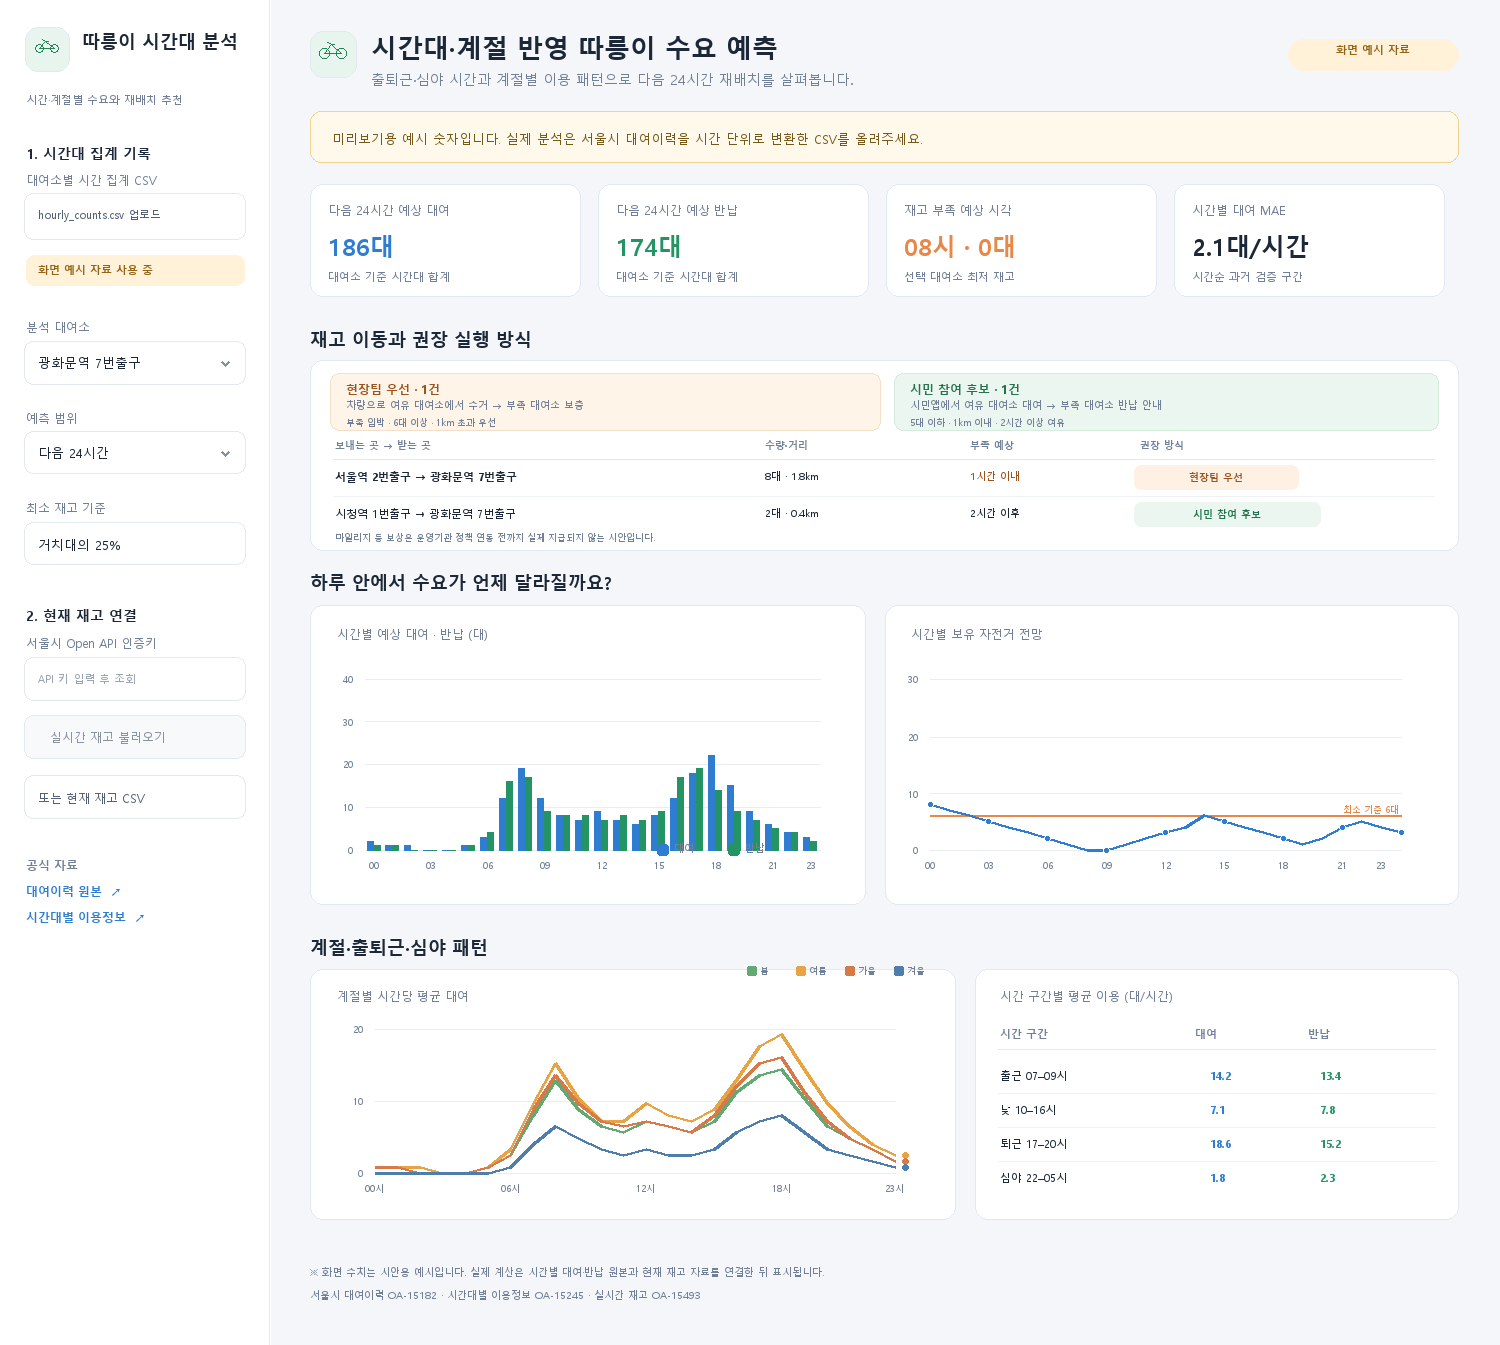
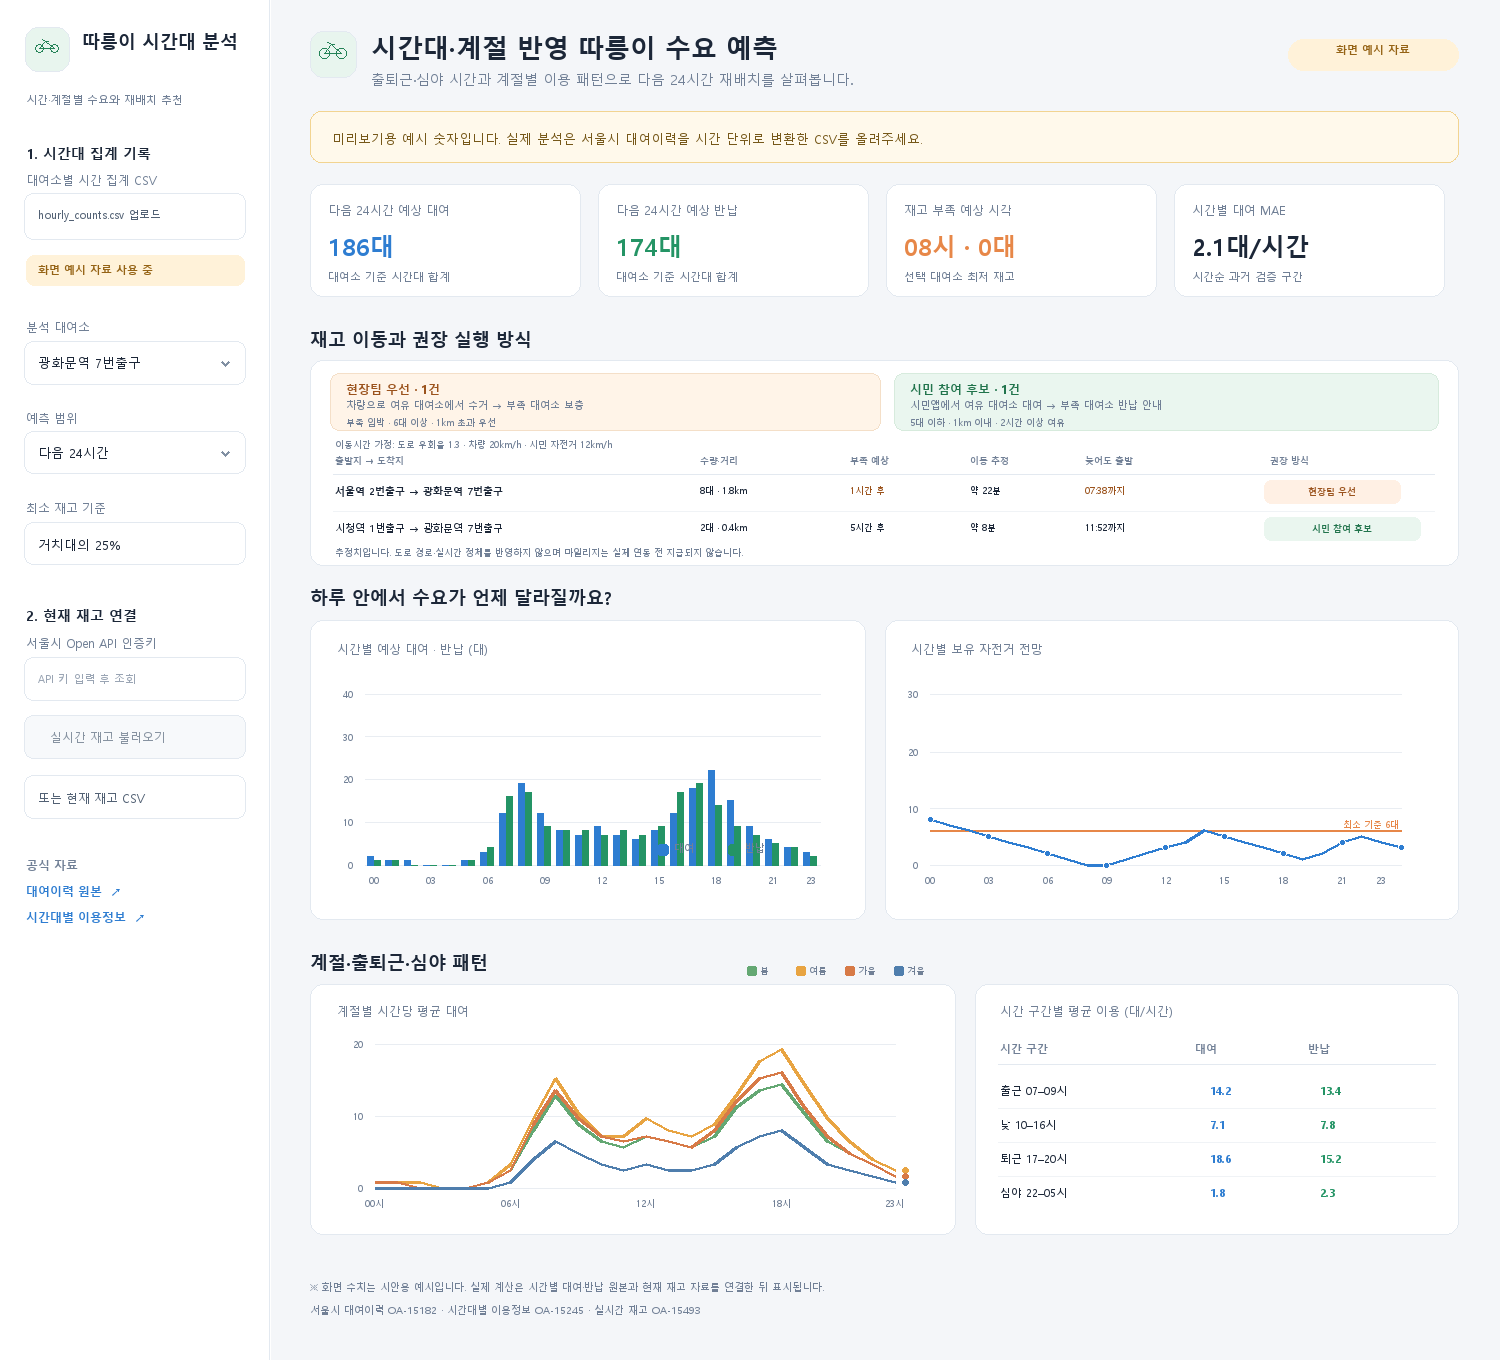
bicycle2

diff --git a/hourly_app.py b/hourly_app.py
@@ -342,8 +342,15 @@ def inventory_table(forecast: pd.DataFrame, stock: pd.DataFrame, ratio: float):
     return merged
 
 
-def transfer_suggestions(table: pd.DataFrame):
-    columns = ["보내는 대여소", "받는 대여소", "이동 참고량", "직선거리", "부족 예상", "권장 방식", "실행 제안", "추천 이유"]
+def transfer_suggestions(
+    table: pd.DataFrame,
+    road_factor: float,
+    field_speed_kmh: float,
+    citizen_speed_kmh: float,
+    field_buffer_min: int,
+    citizen_buffer_min: int,
+):
+    columns = ["보내는 대여소", "받는 대여소", "이동 참고량", "직선거리", "예상 소요", "부족 예상", "늦어도 출발", "권장 방식", "실행 제안", "추천 이유"]
     if table.empty:
         return pd.DataFrame(columns=columns)
     donors = table[table["surplus"] >= 1].copy()
@@ -363,6 +370,7 @@ def transfer_suggestions(table: pd.DataFrame):
             _, didx, dist = min(distances, key=lambda item: item[0])
             qty = min(int(donors.loc[didx, "left"]), int(receivers.loc[ridx, "left"]))
             lead_hours = receivers.loc[ridx].get("hours_until_shortage", np.nan)
+            shortage_time = receivers.loc[ridx].get("first_shortage_time", pd.NaT)
             urgent = pd.notna(lead_hours) and float(lead_hours) <= 2
             nearby = dist is not None and dist <= 1.0
             citizen_candidate = qty <= 5 and nearby and not urgent
@@ -370,9 +378,13 @@ def transfer_suggestions(table: pd.DataFrame):
                 method = "시민 참여 후보"
                 action = "출발지에서 대여 → 도착지에 반납 미션 안내"
                 reason = "소량·1km 이내·2시간 이상 여유"
+                speed_kmh = citizen_speed_kmh
+                buffer_min = citizen_buffer_min
             else:
                 method = "현장팀 우선"
                 action = "현장팀 차량으로 출발지 수거 → 도착지 보충"
+                speed_kmh = field_speed_kmh
+                buffer_min = field_buffer_min
                 reasons = []
                 if urgent:
                     reasons.append("부족까지 2시간 이내")
@@ -383,12 +395,28 @@ def transfer_suggestions(table: pd.DataFrame):
                 elif not nearby:
                     reasons.append("직선거리 1km 초과")
                 reason = " · ".join(reasons) if reasons else "시민 참여 조건에 해당하지 않음"
+            if dist is not None and pd.notna(shortage_time):
+                estimated_minutes = int(math.ceil((float(dist) * road_factor / speed_kmh) * 60 + buffer_min))
+                dispatch_by = pd.Timestamp(shortage_time) - pd.Timedelta(minutes=estimated_minutes)
+                now = pd.Timestamp.now()
+                if dispatch_by <= now:
+                dispatch_label = "출발 권고 시각 경과 · 즉시 판단"
+                elif dispatch_by - now <= pd.Timedelta(minutes=5):
+                    dispatch_label = "지금 출발 권고"
+                else:
+                    dispatch_label = dispatch_by.strftime("%m/%d %H:%M까지")
+                duration_label = f"약 {estimated_minutes}분*"
+            else:
+                duration_label = "산정 자료 필요"
+                dispatch_label = "거리·부족 시각 필요"
             results.append({
                 "보내는 대여소": donors.loc[didx, "station_name"],
                 "받는 대여소": receivers.loc[ridx, "station_name"],
                 "이동 참고량": f"{qty}대",
                 "직선거리": f"{dist:.1f} km" if dist is not None else "위치자료 없음",
+                "예상 소요": duration_label,
                 "부족 예상": f"약 {max(0, int(round(float(lead_hours))))}시간 후" if pd.notna(lead_hours) else "예측 기간 내",
+                "최소 출발 시각": dispatch_label,
                 "권장 방식": method,
                 "실행 제안": action,
                 "추천 이유": reason,
@@ -416,6 +444,13 @@ def sidebar(history, is_demo, demo_stock):
         focus = st.selectbox("분석 대여소", station_ids, format_func=lambda sid: ids.get(sid, str(sid)))
         horizon = st.select_slider("예측 범위", options=[1, 2, 6, 12, 24], value=24, format_func=lambda h: f"다음 {h}시간")
         ratio = st.slider("최소 재고 기준", 10, 50, 25, 5) / 100
+        with st.expander("이동시간 계산 기준"):
+            st.caption("직선거리에 도로 우회율을 곱한 뒤, 설정 평균속도와 준비 여유시간으로 추정합니다.")
+            road_factor = st.slider("도로 우회율", 1.0, 2.0, 1.3, 0.1, help="직선거리 대비 실제 도로 경로를 가정하는 배율")
+            field_speed = st.number_input("현장 차량 평균속도 (km/h)", min_value=5.0, max_value=60.0, value=20.0, step=1.0)
+            citizen_speed = st.number_input("시민 자전거 평균속도 (km/h)", min_value=5.0, max_value=30.0, value=12.0, step=1.0)
+            field_buffer = st.number_input("현장팀 상·하차 여유 (분)", min_value=0, max_value=60, value=15, step=5)
+            citizen_buffer = st.number_input("시민 대여·반납 여유 (분)", min_value=0, max_value=30, value=5, step=5)
         st.markdown("---")
         st.markdown("**현재 재고 연결**")
         api_key = st.text_input("서울시 Open API 인증키", type="password")
@@ -444,12 +479,12 @@ def sidebar(history, is_demo, demo_stock):
         st.caption("시간 데이터 출처")
         st.markdown(f"[대여 이력 원본 ↗]({HISTORY_URL})  ")
         st.markdown(f"[시간대별 이용 정보 ↗]({HOURLY_URL})")
-    return history, is_demo, focus, horizon, ratio, stock, current, capacity
+    return history, is_demo, focus, horizon, ratio, road_factor, field_speed, citizen_speed, field_buffer, citizen_buffer, stock, current, capacity
 
 
 def main():
     demo, demo_stock = make_demo_hourly()
-    history, is_demo, focus_id, horizon, ratio, stock, manual_current, manual_capacity = sidebar(demo, True, demo_stock)
+    history, is_demo, focus_id, horizon, ratio, road_factor, field_speed, citizen_speed, field_buffer, citizen_buffer, stock, manual_current, manual_capacity = sidebar(demo, True, demo_stock)
     if is_demo and stock.empty:
         stock = demo_stock
         st.session_state["hourly_stock_label"] = "화면 예시 재고"
@@ -507,7 +542,7 @@ def main():
     c4.metric("최소 기준까지 이동 참고량", f"{need}대", help=f"거치대 {capacity}대, 최소 재고 기준 {target}대")
 
     moves = inventory_table(forecast, stock, ratio)
-    suggestions = transfer_suggestions(moves)
+    suggestions = transfer_suggestions(moves, road_factor, field_speed, citizen_speed, field_buffer, citizen_buffer)
     st.markdown('<div class="section-title">재고 이동과 권장 실행 방식</div>', unsafe_allow_html=True)
     if is_demo:
         st.caption("예시 재고와 예시 모델 결과를 표시 중입니다.")
@@ -525,6 +560,7 @@ def main():
         action2.caption("앱에서 여유 대여소 대여 → 부족 대여소 반납 미션 안내")
         st.dataframe(suggestions.head(8), use_container_width=True, hide_index=True)
         st.caption("시민 참여 후보는 앱 미션·보상 정책이 실제로 적용되는 대여소에서만 운영할 수 있습니다. 이 화면은 미션을 자동 발행하거나 보상을 지급하지 않습니다.")
+        st.caption("* 늦어도 출발할 시각 = 부족 예상 시각 − (직선거리 × 도로 우회율 ÷ 평균속도 × 60 + 준비 여유분). 실시간 교통·실제 도로 경로는 반영하지 않는 계획용 추정치입니다.")
     st.caption(f"선택 대여소: {focus_name} · 현재 {current_bikes}대 · 거치대 {capacity}대 · 최소 기준 {target}대 · 학습 대여소 {station_count}곳")
 
     left, right = st.columns([1.08, 0.92], gap="medium")

diff --git a/render_preview.py b/render_preview.py
@@ -5,7 +5,7 @@ from PIL import Image, ImageDraw, ImageFont
 
 ROOT = Path(__file__).resolve().parent
 OUT = ROOT / "tabareungi-hourly-preview.png"
-W, H = 1500, 1345
+W, H = 1500, 1360
 BG, INK, MUTED, BLUE, GREEN, ORANGE, LINE = "#F4F6F9", "#1C2738", "#718096", "#2E7DD1", "#249465", "#E78748", "#E3E9F0"
 im = Image.new("RGB", (W, H), BG)
 d = ImageDraw.Draw(im)
@@ -107,7 +107,7 @@ for x, title, value, detail, color in cards:
 
 # Rebalancing method recommendations
 t(310, 327, "재고 이동과 권장 실행 방식", 18, INK, True)
-box((310, 360, 1458, 550), 13)
+box((310, 360, 1458, 565), 13)
 box((330, 373, 880, 430), 9, "#FFF4E8", "#F4DFC8")
 t(346, 380, "현장팀 우선 · 1건", 12, "#9B531D", True)
 t(346, 398, "차량으로 여유 대여소에서 수거 → 부족 대여소 보충", 10, MUTED)
@@ -116,31 +116,36 @@ box((894, 373, 1438, 430), 9, "#EAF6EF", "#D7EBDD")
 t(910, 380, "시민 참여 후보 · 1건", 12, "#21744C", True)
 t(910, 398, "시민앱에서 여유 대여소 대여 → 부족 대여소 반납 안내", 10, MUTED)
 t(910, 416, "5대 이하 · 1km 이내 · 2시간 이상 여유", 9, MUTED)
-for x, label in [(335, "보내는 곳 → 받는 곳"), (765, "수량·거리"), (970, "부족 예상"), (1140, "권장 방식")]:
-    t(x, 438, label, 10, MUTED, True)
-d.line((333, 459, 1434, 459), fill=LINE, width=1)
-t(335, 469, "서울역 2번출구 → 광화문역 7번출구", 11, INK, True)
-t(765, 469, "8대 · 1.8km", 10)
-t(970, 469, "1시간 이내", 10, "#9B531D")
-box((1134, 465, 1298, 489), 7, "#FFF0E4", "#FFF0E4")
-t(1216, 477, "현장팀 우선", 10, "#9B531D", True, "mm")
-d.line((333, 496, 1434, 496), fill="#F0F3F6", width=1)
-t(335, 506, "시청역 1번출구 → 광화문역 7번출구", 11, INK)
-t(765, 506, "2대 · 0.4km", 10)
-t(970, 506, "2시간 이후", 10)
-box((1134, 502, 1320, 526), 7, "#EAF6EF", "#EAF6EF")
-t(1227, 514, "시민 참여 후보", 10, "#21744C", True, "mm")
-t(335, 531, "마일리지 등 보상은 운영기관 정책 연동 전까지 실제 지급되지 않는 시안입니다.", 9, MUTED)
+t(335, 438, "이동시간 가정: 도로 우회율 1.3 · 차량 20km/h · 시민 자전거 12km/h", 9, MUTED)
+for x, label in [(335, "출발지 → 도착지"), (700, "수량·거리"), (850, "부족 예상"), (970, "이동 추정"), (1085, "늦어도 출발"), (1270, "권장 방식")]:
+    t(x, 454, label, 9, MUTED, True)
+d.line((333, 474, 1434, 474), fill=LINE, width=1)
+t(335, 484, "서울역 2번출구 → 광화문역 7번출구", 10, INK, True)
+t(700, 484, "8대 · 1.8km", 9)
+t(850, 484, "1시간 후", 9, "#9B531D")
+t(970, 484, "약 22분", 9)
+t(1085, 484, "07:38까지", 9, "#9B531D")
+box((1264, 480, 1400, 503), 7, "#FFF0E4", "#FFF0E4")
+t(1332, 491, "현장팀 우선", 9, "#9B531D", True, "mm")
+d.line((333, 511, 1434, 511), fill="#F0F3F6", width=1)
+t(335, 521, "시청역 1번출구 → 광화문역 7번출구", 10, INK)
+t(700, 521, "2대 · 0.4km", 9)
+t(850, 521, "5시간 후", 9)
+t(970, 521, "약 8분", 9)
+t(1085, 521, "11:52까지", 9)
+box((1264, 517, 1420, 540), 7, "#EAF6EF", "#EAF6EF")
+t(1342, 528, "시민 참여 후보", 9, "#21744C", True, "mm")
+t(335, 546, "추정치입니다. 도로 경로·실시간 정체를 반영하지 않으며 마일리지는 실제 연동 전 지급되지 않습니다.", 9, MUTED)
 
 # Hourly demand + stock charts
-t(310, 570, "하루 안에서 수요가 언제 달라질까요?", 18, INK, True)
-box((310, 605, 865, 904), 13)
-box((885, 605, 1458, 904), 13)
-t(337, 625, "시간별 예상 대여 · 반납 (대)", 12, MUTED)
-t(911, 625, "시간별 보유 자전거 전망", 12, MUTED)
+t(310, 585, "하루 안에서 수요가 언제 달라질까요?", 18, INK, True)
+box((310, 620, 865, 919), 13)
+box((885, 620, 1458, 919), 13)
+t(337, 640, "시간별 예상 대여 · 반납 (대)", 12, MUTED)
+t(911, 640, "시간별 보유 자전거 전망", 12, MUTED)
 
 # grouped hourly columns
-lx, ly, lw, lh = 365, 679, 455, 171
+lx, ly, lw, lh = 365, 694, 455, 171
 for tick, fraction in [(0, 1), (10, .75), (20, .5), (30, .25), (40, 0)]:
     y = ly + lh*fraction
     d.line((lx, y, lx+lw, y), fill="#E9EDF2", width=1)
@@ -162,7 +167,7 @@ box((728, 844, 739, 855), 3, GREEN, GREEN)
 t(745, 841, "반납", 10, MUTED)
 
 # inventory line
-rx, ry, rw, rh = 930, 679, 471, 171
+rx, ry, rw, rh = 930, 694, 471, 171
 for tick, fraction in [(0, 1), (10, .67), (20, .34), (30, 0)]:
     y = ry + rh*fraction
     d.line((rx, y, rx+rw, y), fill="#E9EDF2", width=1)
@@ -183,11 +188,11 @@ for hour in [0, 3, 6, 9, 12, 15, 18, 21, 23]:
     t(rx+hour*rw/24, ry+rh+12, f"{hour:02d}", 9, MUTED, anchor="mt")
 
 # seasonal profile and commute table
-t(310, 935, "계절·출퇴근·심야 패턴", 18, INK, True)
-box((310, 969, 955, 1219), 13)
-box((975, 969, 1458, 1219), 13)
-t(337, 987, "계절별 시간당 평균 대여", 12, MUTED)
-sx, sy, sw, sh = 375, 1029, 520, 144
+t(310, 950, "계절·출퇴근·심야 패턴", 18, INK, True)
+box((310, 984, 955, 1234), 13)
+box((975, 984, 1458, 1234), 13)
+t(337, 1002, "계절별 시간당 평균 대여", 12, MUTED)
+sx, sy, sw, sh = 375, 1044, 520, 144
 for tick, fraction in [(0, 1), (10, .5), (20, 0)]:
     y=sy+sh*fraction
     d.line((sx,y,sx+sw,y), fill="#E9EDF2", width=1)
@@ -211,19 +216,19 @@ for name, (values, color) in season_profiles.items():
 for hour in [0, 6, 12, 18, 23]:
     t(sx+hour*sw/23, sy+sh+11, f"{hour:02d}시", 9, MUTED, anchor="mt")
 
-t(1000, 987, "시간 구간별 평균 이용 (대/시간)", 12, MUTED)
+t(1000, 1002, "시간 구간별 평균 이용 (대/시간)", 12, MUTED)
 for x, label in [(1000,"시간 구간"),(1195,"대여"),(1308,"반납")]:
-    t(x, 1026, label, 11, MUTED, True)
-d.line((998, 1049, 1435, 1049), fill=LINE, width=1)
+    t(x, 1041, label, 11, MUTED, True)
+d.line((998, 1064, 1435, 1064), fill=LINE, width=1)
 rows=[("출근 07–09시",14.2,13.4),("낮 10–16시",7.1,7.8),("퇴근 17–20시",18.6,15.2),("심야 22–05시",1.8,2.3)]
 for idx,(label,rent,ret) in enumerate(rows):
-    y=1068+idx*34
+    y=1083+idx*34
     t(1000,y,label,11,INK)
     t(1210,y,f"{rent:.1f}",11,BLUE,True)
     t(1320,y,f"{ret:.1f}",11,GREEN,True)
     if idx<3: d.line((998,y+25,1435,y+25),fill="#F0F3F6",width=1)
 
-t(310, 1265, "※ 화면 수치는 시안용 예시입니다. 실제 계산은 시간별 대여·반납 원본과 현재 재고 자료를 연결한 뒤 표시됩니다.", 10, MUTED)
-t(310, 1288, "서울시 대여이력 OA-15182 · 시간대별 이용정보 OA-15245 · 실시간 재고 OA-15493", 10, MUTED)
+t(310, 1280, "※ 화면 수치는 시안용 예시입니다. 실제 계산은 시간별 대여·반납 원본과 현재 재고 자료를 연결한 뒤 표시됩니다.", 10, MUTED)
+t(310, 1303, "서울시 대여이력 OA-15182 · 시간대별 이용정보 OA-15245 · 실시간 재고 OA-15493", 10, MUTED)
 im.save(OUT, optimize=True)
 print(OUT)

diff --git a/README.md b/README.md
@@ -37,6 +37,8 @@ streamlit run app.py
 - 실제 시간별 대여/반납량을 대여 이력에서 각각 집계해 두 값을 예측합니다.
 - 화면에는 다음 1/2/6/12/24시간 대여·반납 예측, 예측 기간의 최소 재고, 부족 예상 시각, 재고 이동 참고량이 나옵니다.
 - 이동 후보별로 실행 방법도 분류합니다. 부족까지 2시간 이내이거나 이동량이 6대 이상, 직선거리 1km 초과 또는 위치 정보가 없으면 **현장팀 우선**으로 표시합니다. 이동량이 1–5대이고, 직선거리 1km 이내이며, 부족까지 2시간보다 여유가 있으면 **시민 참여 후보**로 표시합니다.
+- 이동 후보마다 **예상 소요시간과 늦어도 출발할 시각**도 계산합니다. 기본값은 도로 우회율 1.3, 현장 차량 평균속도 20km/h, 자전거 평균속도 12km/h, 준비 여유시간은 현장팀 15분·시민 5분이며, 왼쪽 `이동시간 계산 기준`에서 바꿀 수 있습니다.
+- 계산식(분): `예상 소요시간 = 직선거리 × 도로 우회율 ÷ 선택된 평균속도 × 60 + 준비 여유시간`; `늦어도 출발 시각 = 부족 예상 시각 − 예상 소요시간`입니다. 위 기본값은 시연을 위한 가정값입니다.
 - 시민 참여 분류는 앱 미션/보상 연동 전의 제안입니다. 실제 미션 발행·보상 지급이나 현장팀 배차를 수행하지 않습니다. 마일리지 규칙, 참여 시간, 대상 대여소는 운영기관의 현재 정책을 확인해 설정해야 합니다.
 - 계절별 시간당 평균 대여량과 출근(07–09시)·퇴근(17–20시)·심야(22–05시) 패턴도 따로 비교합니다.
 - MAE는 시간 순서로 뒤쪽 20%를 검증 구간으로 떼어 계산한 **대여량의 시간당 평균절대오차**입니다. 과거 검증 오차이며 미래 정확도를 보장하지 않습니다.
@@ -44,7 +46,7 @@ streamlit run app.py
 
 현재 모델과 확장 후보 변수의 구분, 각 변수의 공식 출처는 [변수 계획과 자료 출처](VARIABLES.md)를 확인하세요. 지금 실행 파일의 예측에는 시간·요일·계절·대여소 ID가 들어갑니다. 기상·대기질·공휴일은 공개자료가 있지만 아직 모델 입력에 연결하지 않았습니다.
 
-이동 참고량은 `현재 자전거 + 시간별 예상 반납 − 시간별 예상 대여`를 누적해 예측 기간의 최소 보유량과 사용자가 정한 최소 재고 기준을 비교합니다. 재배치 방식은 프로젝트 데모용 우선순위 규칙으로, 도로 이동시간·차량 적재량·날씨·행사·대여소가 비어 빌리지 못한 잠재 수요는 반영하지 않습니다. 직선거리는 차량 운행거리와 다르므로 실제 운영 전 확인이 필요합니다.
+이동 참고량은 `현재 자전거 + 시간별 예상 반납 − 시간별 예상 대여`를 누적해 예측 기간의 최소 보유량과 사용자가 정한 최소 재고 기준을 비교합니다. 이동시간은 직선거리에 설정한 도로 우회율을 적용한 계획용 추정치입니다. 실시간 교통·실제 도로 경로·차량 적재량·날씨·행사·대여소가 비어 빌리지 못한 잠재 수요는 반영하지 않으므로 실제 운영 전 확인이 필요합니다.
 
 ## 공식 데이터 출처
 

diff --git a/VARIABLES.md b/VARIABLES.md
@@ -8,6 +8,7 @@
 | 공간 | 대여소 ID | 대여소별 반복 이용 패턴 학습 |
 | 운영 기준 | 현재 대여 가능 자전거 수, 거치대 용량 | 예측 종료 시 재고·최소 유지량 계산 |
 | 위치 | 위도·경도 | 재배치 후보 사이 직선거리 계산 |
+| 이동시간 가정 | 도로 우회율, 차량·자전거 평균속도, 준비 여유시간 | 예상 소요시간과 늦어도 출발할 시각 계산. 실제 경로·교통 데이터가 아니며 사용자가 조정 |
 
 현재 목표값은 실제 시간별 **대여 건수와 반납 건수**입니다. 모델은 따릉이 대여 기록을 대여소별로 시간 집계합니다. 대여소가 비어 빌리지 못한 수요, 만차여서 반납하지 못한 수요는 이용 기록만으로 관찰되지 않습니다.
 
@@ -21,6 +22,8 @@
 | 시민 참여 후보 | 이동량 1–5대, 직선거리 1km 이내, 부족까지 2시간보다 여유 | 앱에서 여유 대여소 대여 후 부족 대여소 반납 미션 안내 |
 
 위 숫자는 모델이 데이터로 학습한 사실이 아니라 화면 시연을 위한 **초기 분류 규칙**입니다. 운영기관이 실제 재배치 시간·차량·참여 프로그램 자료를 제공하면 그 기준으로 조정해야 합니다. 직선거리는 실제 도로 이동거리와 다르고, 화면은 차량 배차·시민 미션 발행·마일리지 지급을 실행하지 않습니다. 마일리지 금액과 참여 가능 조건도 현재 정책을 확인해 별도 설정해야 합니다.
+
+이동시간은 `(대여소 간 직선거리 × 도로 우회율 ÷ 선택된 평균속도 × 60) + 준비 여유시간`으로 분 단위 추정합니다. 부족 예상 시각에서 이 값을 빼 **늦어도 출발할 시각**을 표시합니다. 기본값(도로 우회율 1.3, 차량 20km/h, 자전거 12km/h, 현장팀 여유 15분, 시민 여유 5분)은 시연용 가정이므로, 실제 도로 거리·시간대별 차량 속도 자료가 확보되면 대체해야 합니다. 정체·도로 공사·신호 대기·현장 상하차 변동은 반영되지 않습니다.
 
 ## 다음 단계에서 붙일 수 있는 외부 변수
 
